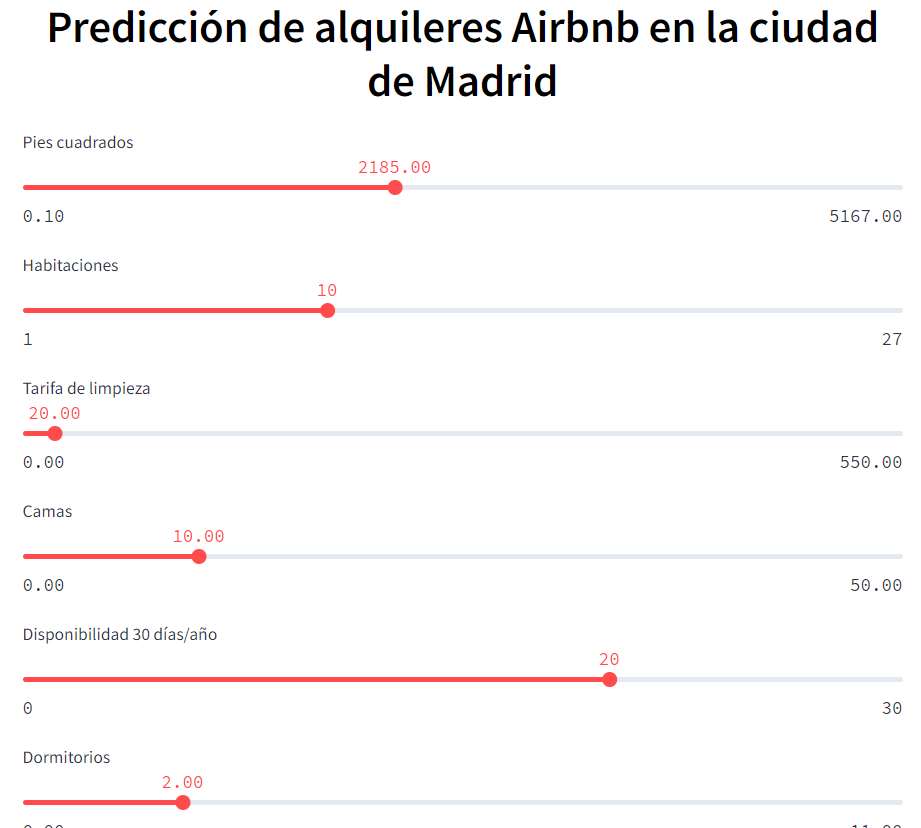
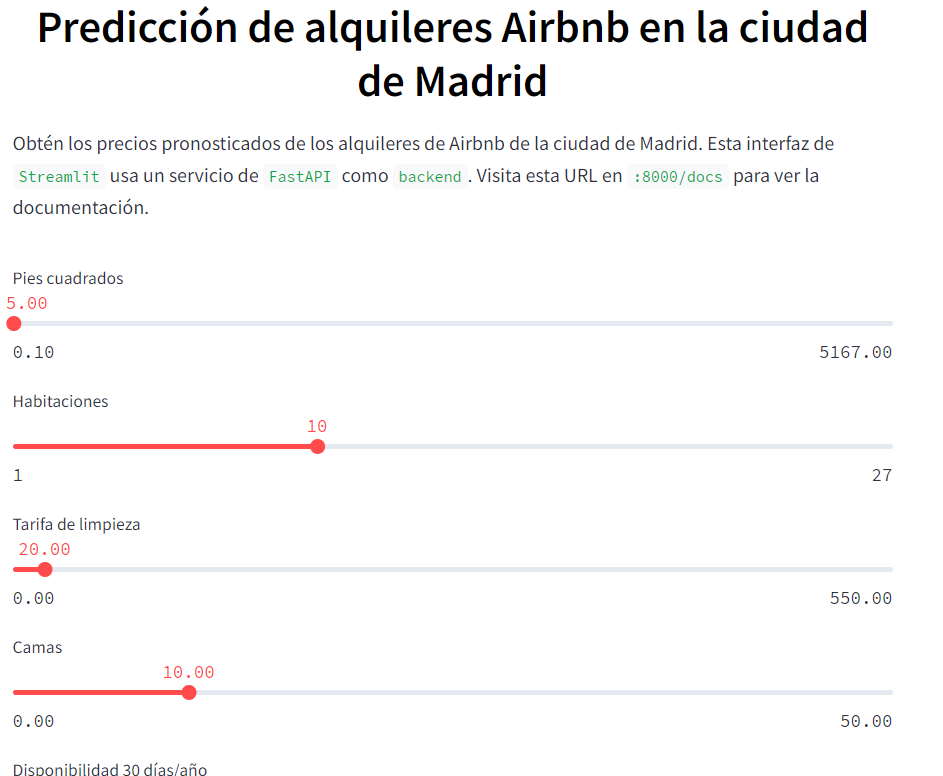
feat: Dockerfiles backend y frontend

diff --git a/app/fullstack/frontend/app.py b/app/fullstack/frontend/app.py
@@ -7,6 +7,13 @@ import requests
 st.markdown("<h2 style='text-align: center; color: black;'> Predicción de alquileres Airbnb en la ciudad de Madrid </h2>",
             unsafe_allow_html=True)
 
+# Información de que el backend está en un servicio de FastAPI
+st.write('''Obtén los precios pronosticados de los alquileres de Airbnb de la ciudad de Madrid. Esta interfaz de `Streamlit` 
+usa un servicio de `FastAPI` como `backend`. Visita esta URL en `:8000/docs` para ver la documentación.''')
+
+# Este texto vacío es simplemente para crear espacio entre el texto de arriba y el que irá debajo
+st.text("")
+
 # Se guarda en una variable la URL local de la API de FastAPI donde se realizan las peticiones 'POST' al modelo para obtener
 # las predicciones
 api_url = "http://localhost:8000/predict"
@@ -82,6 +89,9 @@ inputs = {
     "z": z,
     "date": date
 }
+
+# Este texto vacío es simplemente para crear espacio entre el texto de arriba y el que irá debajo
+st.text("")
 
 # Si se pulsa el botón de calcular se envía la petición 'POST' a la API
 if st.button('Calcular'):
